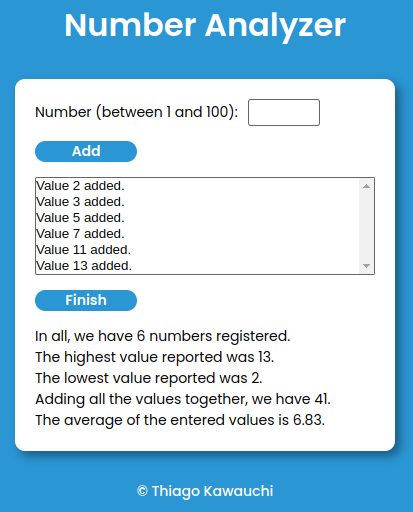
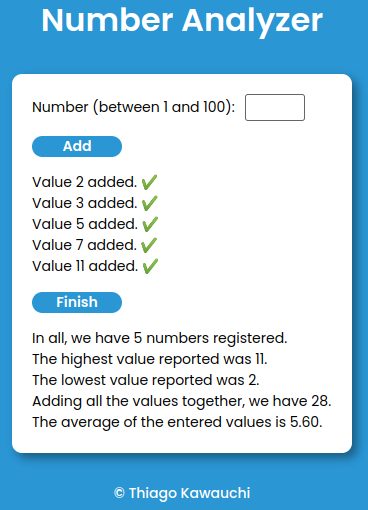
changed select display to plain text display

Changed region(s): [[0.0299, 0.1471, 0.9565, 0.9118], [0.1196, 0.0, 0.8668, 0.0882], [0.2989, 0.9412, 0.6875, 1.0]]

diff --git a/script.js b/script.js
@@ -13,10 +13,14 @@ function addNumber () {
 	if (number == null || number < 1 || number > 100 || numbersList.includes(number)) {
 		alert('Invalid value or already found in the list.')
 	} else {
-		let createOption = document.createElement('option')
-		createOption.text = `Value ${number} added.`
-		select.appendChild(createOption)
-		
+		let valuesArea = document.getElementById('added-numbers')
+
+		if (numbersList.length == 0) {
+			valuesArea.innerHTML = `Value ${number} added. ✔`
+		} else {
+			valuesArea.innerHTML += `<br>Value ${number} added. ✔`
+		}
+
 		registeredNumbers++
 
 		if (number > greatestValue) {

diff --git a/index.html b/index.html
@@ -24,7 +24,9 @@
 
 		<button id="add-button">Add</button>
 
-		<select id="select" size="6" style="height: auto"></select>
+		<div id="added-numbers">
+			Enter the number and click the "add" button to add values.
+		</div>
 
 		<button id="finish-button">Finish</button>
 

diff --git a/style.css b/style.css
@@ -70,16 +70,6 @@ button:hover {
 	background-color: #243080;
 }
 
-select {
-	width: 29rem;
-	border: 0.1px solid #666666;
-    z-index: 3;
-}
-
-.fs-dropdown-options {
-    display: none; 
-}
-
 footer {
 	color: #ffffff;
 	font-weight: 500;
